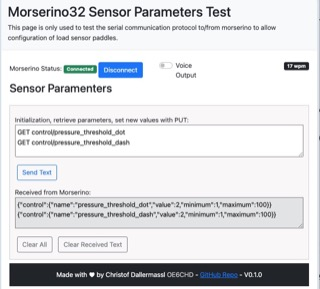
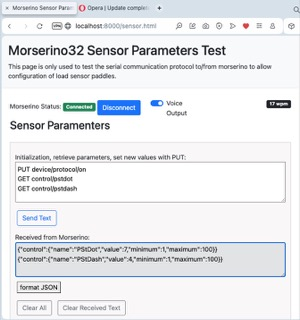
lsp 1.1

diff --git a/Software/src/Version 6/MorsePreferences.cpp b/Software/src/Version 6/MorsePreferences.cpp
@@ -53,7 +53,7 @@ const char *prefName[] = {"encoderClicks", "sidetoneFreq", "useExtPaddle", "dida
                           "GeneratorDispl", "wordDoubler", "echoDisplay", "echoRepeats", "echoConf",
                           "KeyExternalTx", "LoraCwTransmit", "goertzelBW", "speedAdapt",
                           "KochSeq", "carouselStart", "latency", "randomFile", "extAudioOnDecod", "timeOut",
-                          "quickStart", "autoStop", "maxSequence", "LoraChannel", "serialOut"};
+                          "quickStart", "autoStop", "maxSequence", "LoraChannel", "serialOut","PStDot","PStDash"};
 /* parameter:
      uint8_t value; const uint8_t minimum; const uint8_t maximum; const uint8_t stepValue;
      const char *parName;
@@ -292,13 +292,13 @@ uint32_t MorsePreferences::fileWordPointer = 0; // remember how far we have read
 uint8_t MorsePreferences::tLeft = 20;  // threshold for left paddle
 uint8_t MorsePreferences::tRight = 20; // threshold for right paddle
 
-uint8_t MorsePreferences::pressure_threshold_dot = 2; // pressure threshold for left
-extern const uint8_t MorsePreferences::pressure_threshold_dotMin = 1;
-extern const uint8_t MorsePreferences::pressure_threshold_dotMax = 100;
+uint8_t MorsePreferences::PStDot = 4; // pressure threshold for left
+extern const uint8_t MorsePreferences::PStDotMin = 1;
+extern const uint8_t MorsePreferences::PStDotMax = 100;
 
-uint8_t MorsePreferences::pressure_threshold_dash = 2; // pressure threshold for right
-extern const uint8_t MorsePreferences::pressure_threshold_dashMin = 1;
-extern const uint8_t MorsePreferences::pressure_threshold_dashMax = 100;
+uint8_t MorsePreferences::PStDash = 2; // pressure threshold for right
+extern const uint8_t MorsePreferences::PStDashMin = 1;
+extern const uint8_t MorsePreferences::PStDashMax = 100;
 
 uint8_t MorsePreferences::vAdjust = 180; // correction value: 155 - 250
 
@@ -1027,15 +1027,15 @@ void MorsePreferences::readPreferences(String repository)
       else if (morserino)
       pref.putUChar("wpm", MorsePreferences::wpm);
 //
-    if ((temp = pref.getUChar("pressure_threshold_dot")))
-      MorsePreferences::pressure_threshold_dot = temp;
+    if ((temp = pref.getUChar("PStDot")))
+      MorsePreferences::PStDot = temp;
     else if (morserino)
-      pref.putUChar("pressure_threshold_dot", MorsePreferences::pressure_threshold_dot);
+      pref.putUChar("PStDot", MorsePreferences::PStDot);
 
-          if ((temp = pref.getUChar("pressure_threshold_dash")))
-      MorsePreferences::pressure_threshold_dash = temp;
+          if ((temp = pref.getUChar("PStDash")))
+      MorsePreferences::PStDash = temp;
     else if (morserino)
-      pref.putUChar("pressure_threshold_dash", MorsePreferences::pressure_threshold_dash);
+      pref.putUChar("PStDash", MorsePreferences::PStDash);
 
 //
     if ((temp = pref.getUChar("sidetoneVolume", 255)) != 255)
@@ -1447,10 +1447,15 @@ void MorsePreferences::fireCharSeen(boolean wpmOnly)
 {
   pref.begin("morserino", false); // open the namespace as read/write
   pref.putUChar("wpm", MorsePreferences::wpm);
+  // pref.putUChar("PStDot", MorsePreferences::PStDot);
+  // pref.putUChar("PStDash", MorsePreferences::PStDash);
+  DEBUG("@1452 save wpm after 12 char ");
   if (!wpmOnly)
   {
     pref.putUChar("tLeft", MorsePreferences::tLeft);
     pref.putUChar("tRight", MorsePreferences::tRight);
+  // pref.putUChar("PStDot", MorsePreferences::PStDot);
+  // pref.putUChar("PStDash", MorsePreferences::PStDash);
   }
   pref.end();
 }
@@ -1468,10 +1473,14 @@ void MorsePreferences::writeWordPointer()
 void MorsePreferences::writeVolume()
 {
   pref.begin("morserino", false); // open the namespace as read/write
+       pref.putUChar("^", MorsePreferences::PStDash);
+      pref.putUChar("PStDot", MorsePreferences::PStDot);
   DEBUG("last volume: " + String(sidetoneVolume)+ " prefvolume: " + String(MorsePreferences::sidetoneVolume));
   if (pref.getUChar("sidetoneVolume") != MorsePreferences::sidetoneVolume)
 {
     pref.putUChar("sidetoneVolume", MorsePreferences::sidetoneVolume); // store the last volume, if it has changed 
+     pref.putUChar("PStDash", MorsePreferences::PStDash);
+      pref.putUChar("PStDot", MorsePreferences::PStDot);
           }   
   pref.end();
 }

diff --git a/Software/src/Version 6/MorsePreferences.h b/Software/src/Version 6/MorsePreferences.h
@@ -92,13 +92,13 @@ namespace MorsePreferences
   extern uint8_t tLeft;
   extern uint8_t tRight;
 
-  extern uint8_t pressure_threshold_dot;
-  extern const uint8_t pressure_threshold_dotMin;
-  extern const uint8_t pressure_threshold_dotMax;
+  extern uint8_t PStDot;
+  extern const uint8_t PStDotMin;
+  extern const uint8_t PStDotMax;
 
-  extern uint8_t pressure_threshold_dash;
-  extern const uint8_t pressure_threshold_dashMin;
-  extern const uint8_t pressure_threshold_dashMax;
+  extern uint8_t PStDash;
+  extern const uint8_t PStDashMin;
+  extern const uint8_t PStDashMax;
 
   extern uint8_t vAdjust;
   extern uint8_t loraBand;
@@ -117,7 +117,7 @@ namespace MorsePreferences
 
   //// for adjusting preferences
 
-#define MAX_MAP_ELEMENTS 15
+#define MAX_MAP_ELEMENTS 32
 
   struct parameter
   {
